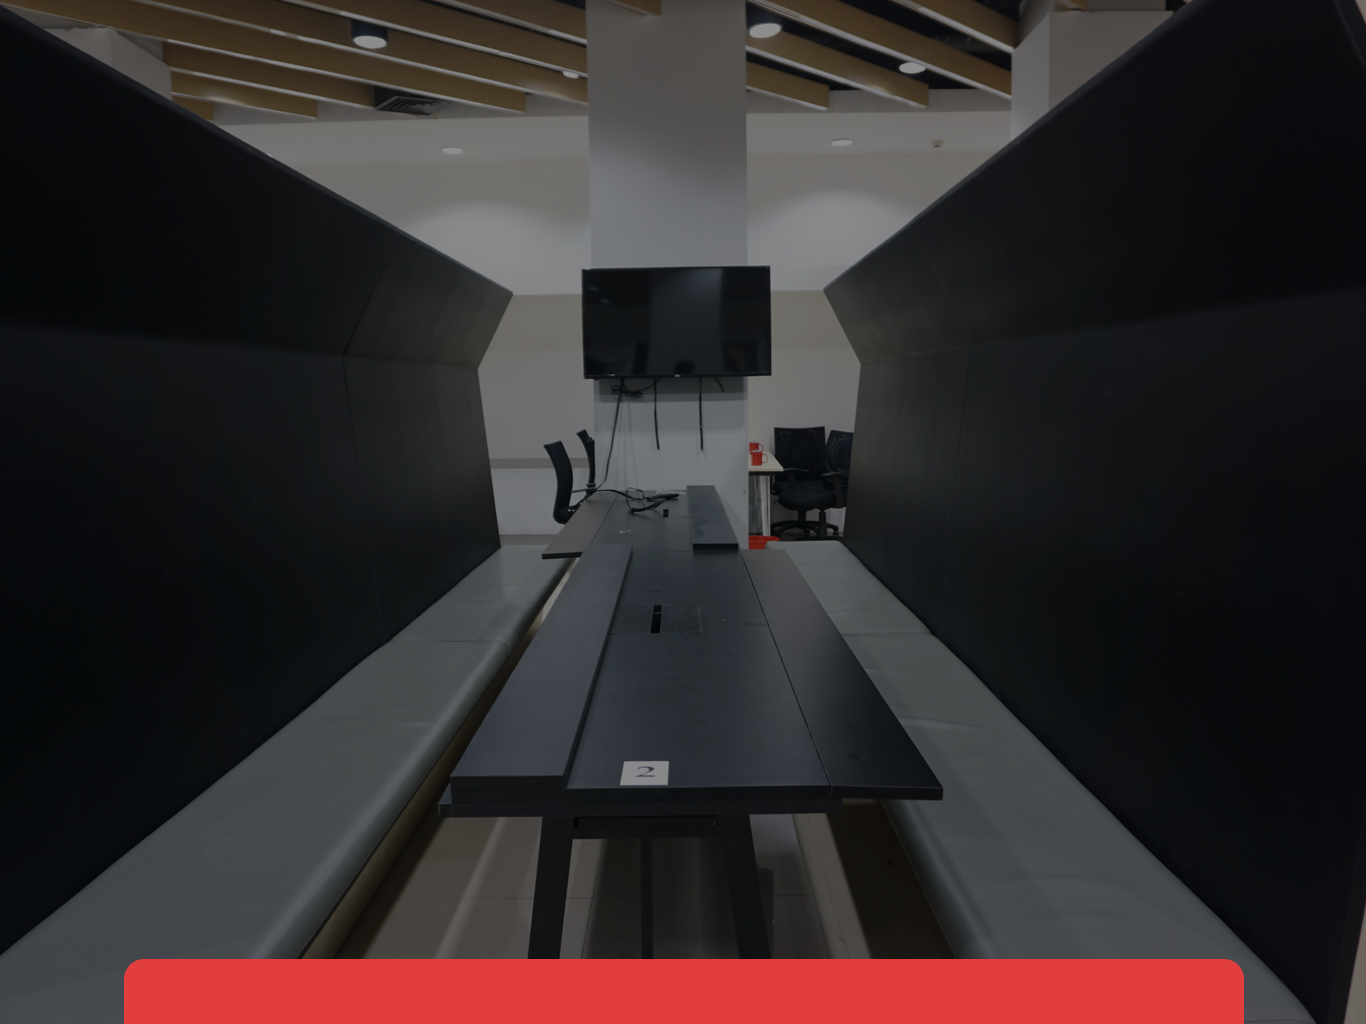
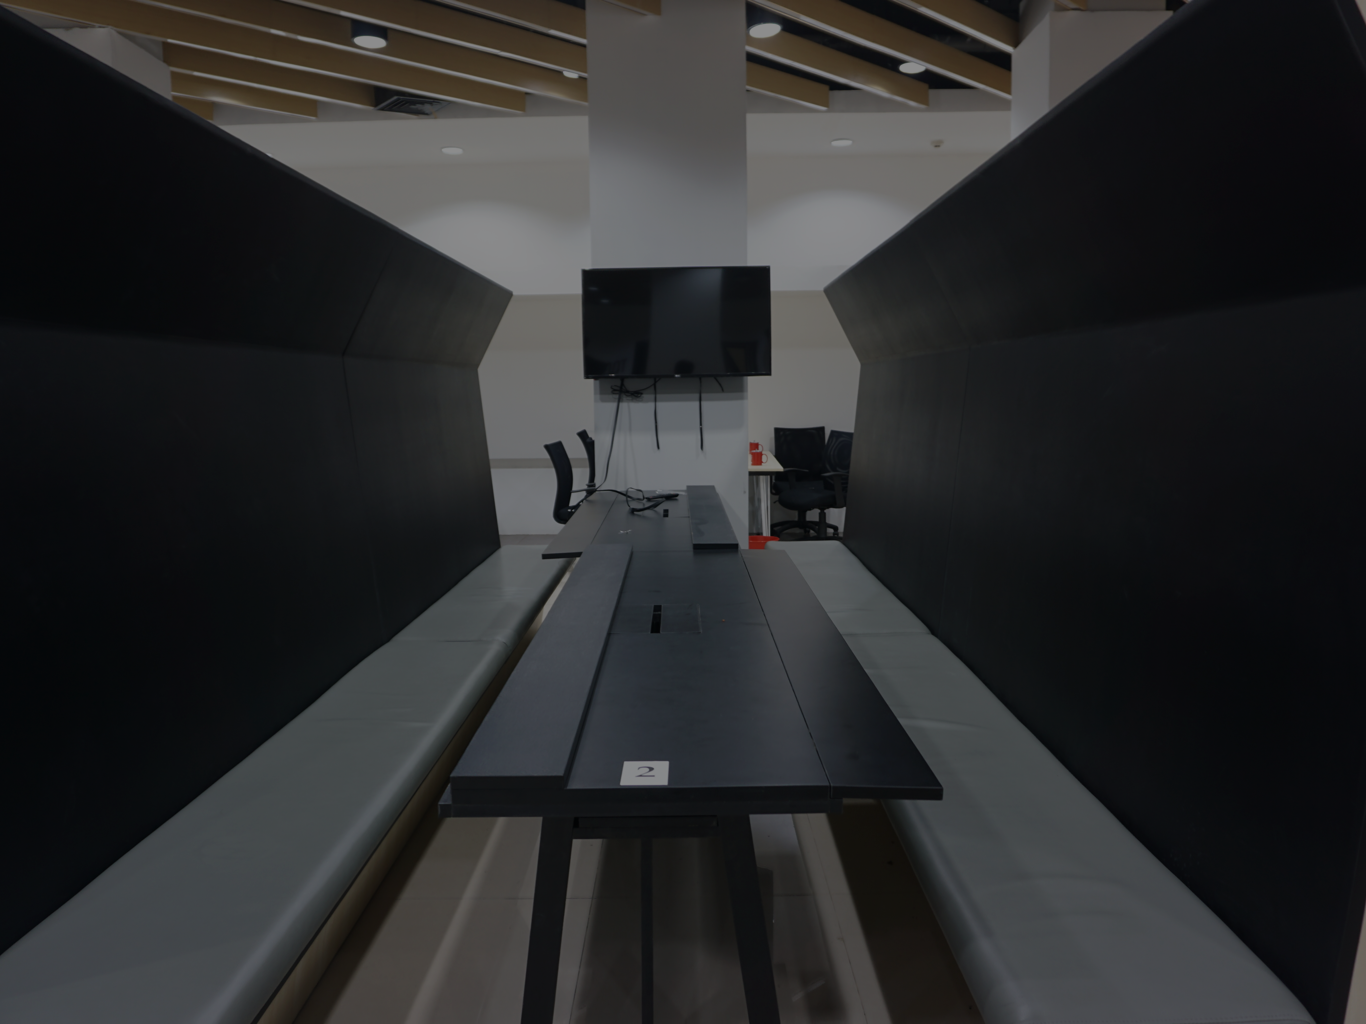
Add room display

Changed region(s): [[0.0922, 0.9375, 0.9224, 1.0]]

diff --git a/Room Display.framer/framer/framer.generated.js b/Room Display.framer/framer/framer.generated.js
@@ -1304,6 +1304,79 @@ window.__imported__["Bukalapak@1x/layers.json.js"] = [
 						"children": []
 					}
 				]
+			},
+			{
+				"objectId": "AF5A4212-0850-4071-9AAD-9C4B768190A5",
+				"kind": "group",
+				"name": "Status",
+				"originalName": "Status",
+				"maskFrame": null,
+				"layerFrame": {
+					"x": 124,
+					"y": 959,
+					"width": 1120,
+					"height": 65
+				},
+				"visible": true,
+				"metadata": {
+					"opacity": 1
+				},
+				"children": [
+					{
+						"objectId": "7F7804C8-C026-4DD4-AE6C-CADC01F63BBE",
+						"kind": "group",
+						"name": "available",
+						"originalName": "available",
+						"maskFrame": null,
+						"layerFrame": {
+							"x": 124,
+							"y": 959,
+							"width": 1120,
+							"height": 65
+						},
+						"visible": true,
+						"metadata": {
+							"opacity": 1
+						},
+						"image": {
+							"path": "images/Layer-available-n0y3oda0.png",
+							"frame": {
+								"x": 124,
+								"y": 959,
+								"width": 1120,
+								"height": 65
+							}
+						},
+						"children": []
+					},
+					{
+						"objectId": "7C806F8E-BE5F-4212-A8DF-8C5EBB5C838C",
+						"kind": "group",
+						"name": "in_use",
+						"originalName": "in_use",
+						"maskFrame": null,
+						"layerFrame": {
+							"x": 124,
+							"y": 959,
+							"width": 1120,
+							"height": 65
+						},
+						"visible": true,
+						"metadata": {
+							"opacity": 1
+						},
+						"image": {
+							"path": "images/Layer-in_use-n0m4mdzg.png",
+							"frame": {
+								"x": 124,
+								"y": 959,
+								"width": 1120,
+								"height": 65
+							}
+						},
+						"children": []
+					}
+				]
 			}
 		]
 	}

diff --git a/Room Display.framer/imported/Bukalapak@1x/layers.json.js b/Room Display.framer/imported/Bukalapak@1x/layers.json.js
@@ -724,6 +724,79 @@ window.__imported__["Bukalapak@1x/layers.json.js"] = [
 						"children": []
 					}
 				]
+			},
+			{
+				"objectId": "AF5A4212-0850-4071-9AAD-9C4B768190A5",
+				"kind": "group",
+				"name": "Status",
+				"originalName": "Status",
+				"maskFrame": null,
+				"layerFrame": {
+					"x": 124,
+					"y": 959,
+					"width": 1120,
+					"height": 65
+				},
+				"visible": true,
+				"metadata": {
+					"opacity": 1
+				},
+				"children": [
+					{
+						"objectId": "7F7804C8-C026-4DD4-AE6C-CADC01F63BBE",
+						"kind": "group",
+						"name": "available",
+						"originalName": "available",
+						"maskFrame": null,
+						"layerFrame": {
+							"x": 124,
+							"y": 959,
+							"width": 1120,
+							"height": 65
+						},
+						"visible": true,
+						"metadata": {
+							"opacity": 1
+						},
+						"image": {
+							"path": "images/Layer-available-n0y3oda0.png",
+							"frame": {
+								"x": 124,
+								"y": 959,
+								"width": 1120,
+								"height": 65
+							}
+						},
+						"children": []
+					},
+					{
+						"objectId": "7C806F8E-BE5F-4212-A8DF-8C5EBB5C838C",
+						"kind": "group",
+						"name": "in_use",
+						"originalName": "in_use",
+						"maskFrame": null,
+						"layerFrame": {
+							"x": 124,
+							"y": 959,
+							"width": 1120,
+							"height": 65
+						},
+						"visible": true,
+						"metadata": {
+							"opacity": 1
+						},
+						"image": {
+							"path": "images/Layer-in_use-n0m4mdzg.png",
+							"frame": {
+								"x": 124,
+								"y": 959,
+								"width": 1120,
+								"height": 65
+							}
+						},
+						"children": []
+					}
+				]
 			}
 		]
 	}
